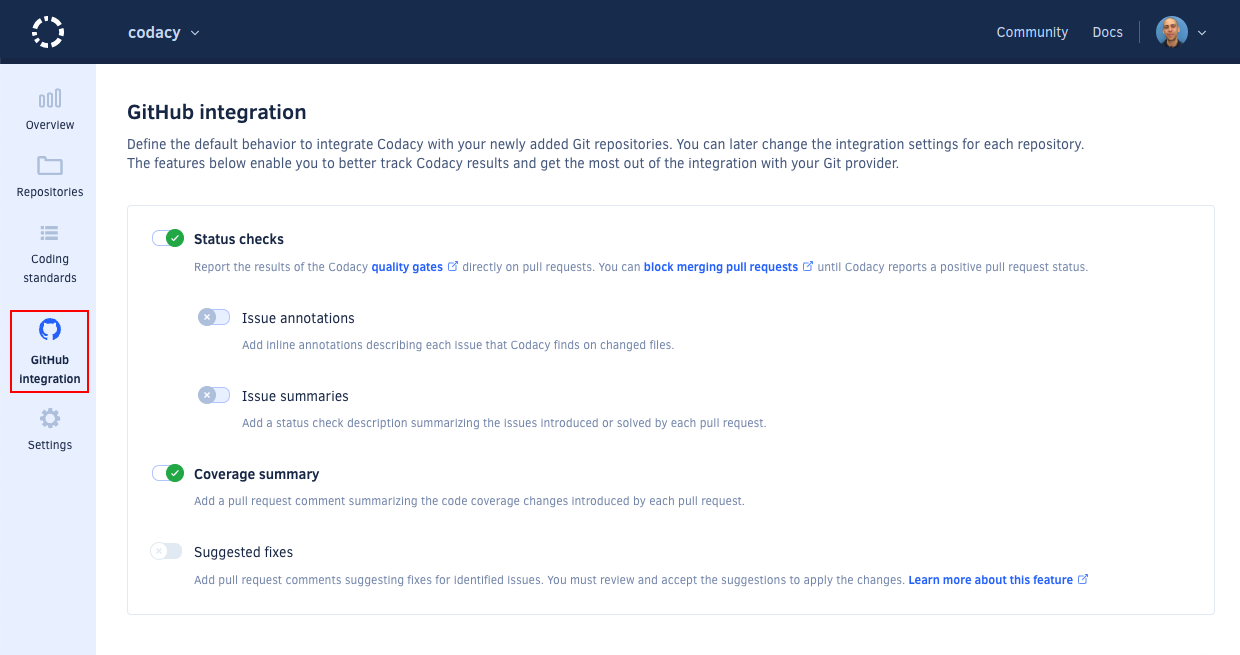
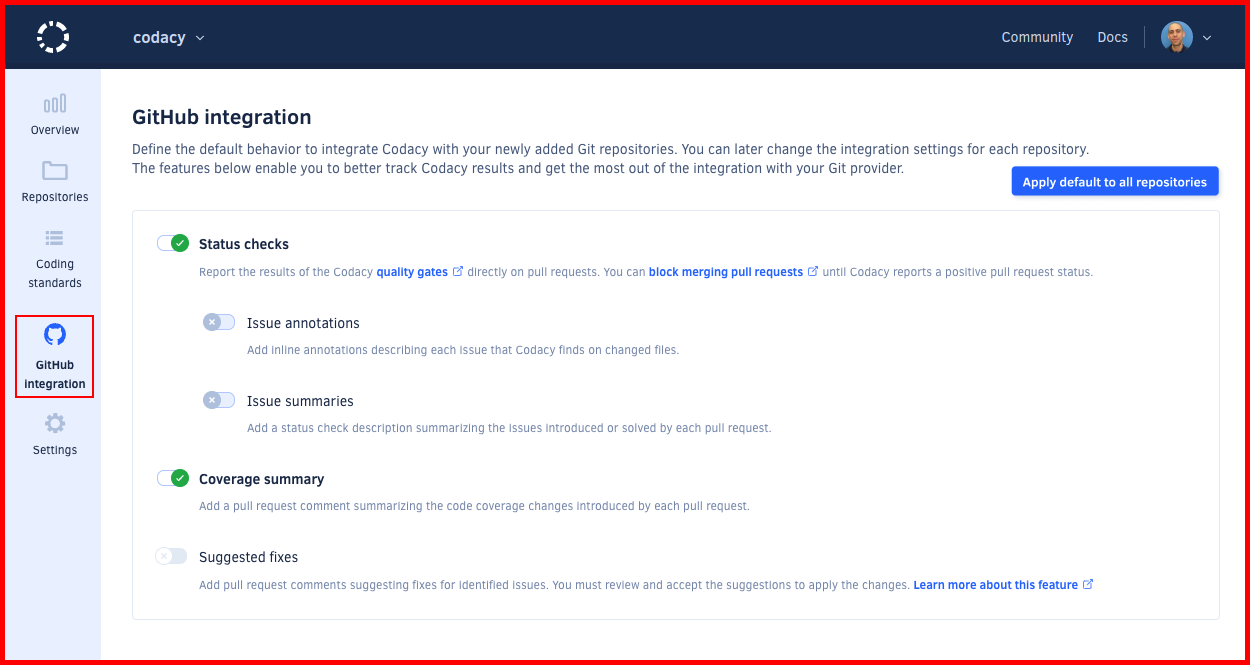
feat: Add section describing the apply all feature. Add tip to mention the apply all

diff --git a/docs/organizations/configuring-default-git-provider-integration-settings.md b/docs/organizations/configuring-default-git-provider-integration-settings.md
@@ -6,11 +6,15 @@ To configure these default settings, go to the Git provider integration page for
 
 ![Default Git provider integration settings](images/default-git-provider-settings.png)<!--TODO PLUTO-550 Update screenshot-->
 
-The organization-level Git provider integration settings define the defaults that Codacy applies to new repositories. You can then customize the settings for each individual repository, which depend on your Git provider, [GitHub](../repositories-configure/integrations/github-integration.md), [GitLab](../repositories-configure/integrations/gitlab-integration.md) or [Bitbucket](../repositories-configure/integrations/bitbucket-integration.md).
+The organization-level Git provider integration settings define the defaults that Codacy applies to new repositories. You can then [apply these setting to all your repositories](#apply-all) already added to Codacy, or customize the settings for each individual repository, which depend on your Git provider, [GitHub](../repositories-configure/integrations/github-integration.md), [GitLab](../repositories-configure/integrations/gitlab-integration.md) or [Bitbucket](../repositories-configure/integrations/bitbucket-integration.md).
 
-## Applying default settings to all repositories
+## Applying default settings to all repositories {: id="apply-all"}
 
-<!--TODO PLUTO-550 Add apply all feature-->
+To ensure that all your repositories are configured with the default Git provider integrating settings defined for your organization, apply these settings all repositories.
+
+To apply the default settings to all repositories, click the button **Apply default to all repositories**.
+
+![Apply default settings to all repositories](images/default-git-provider-settings-apply-all.png)<!--TODO PLUTO-550 Update screenshot-->
 
 ## See also
 

diff --git a/docs/assets/includes/default-git-provider-settings-tip.md b/docs/assets/includes/default-git-provider-settings-tip.md
@@ -1,2 +1,9 @@
+<!--default-settings-start-->
 !!! tip
     Configure the [default Git provider integration settings](../../organizations/configuring-default-git-provider-integration-settings.md) that Codacy applies to new repositories to help ensure that all new repositories have the same settings.
+<!--default-settings-end-->
+
+<!--default-settings-apply-all-start-->
+!!! tip
+    You can [apply the default Git provider integration settings to all repositories](../../organizations/configuring-default-git-provider-integration-settings.md#apply-all) to ensure that all your repositories have the same settings.
+<!--default-settings-apply-all-end-->

diff --git a/docs/repositories-configure/integrations/bitbucket-integration.md b/docs/repositories-configure/integrations/bitbucket-integration.md
@@ -30,7 +30,11 @@ If you remove the integration, you can enable it again as follows:
 
 To configure the Bitbucket integration, open your repository **Settings**, tab **Integrations**.
 
-<!--TODO PLUTO-550 Add tip-->
+{%
+    include-markdown "../../assets/includes/default-git-provider-settings-tip.md"
+    start="<!--default-settings-apply-all-start-->"
+    end="<!--default-settings-apply-all-end-->"
+%}
 
 Depending on the options that you enable, Codacy will automatically update pull requests on Bitbucket with extra information when accepting pull requests:
 

diff --git a/docs/repositories-configure/integrations/gitlab-integration.md b/docs/repositories-configure/integrations/gitlab-integration.md
@@ -26,7 +26,11 @@ If you remove the integration, you can enable it again as follows:
 
 To configure the GitLab integration, open your repository **Settings**, tab **Integrations**.
 
-<!--TODO PLUTO-550 Add tip-->
+{%
+    include-markdown "../../assets/includes/default-git-provider-settings-tip.md"
+    start="<!--default-settings-apply-all-start-->"
+    end="<!--default-settings-apply-all-end-->"
+%}
 
 Depending on the options that you enable, Codacy will automatically update merge requests on GitLab with extra information when accepting merge requests:
 

diff --git a/docs/repositories-configure/integrations/github-integration.md b/docs/repositories-configure/integrations/github-integration.md
@@ -28,7 +28,11 @@ If you remove the integration, you can enable it again as follows:
 
 To configure the GitHub integration, open your repository **Settings**, tab **Integrations**.
 
-<!--TODO PLUTO-550 Add tip-->
+{%
+    include-markdown "../../assets/includes/default-git-provider-settings-tip.md"
+    start="<!--default-settings-apply-all-start-->"
+    end="<!--default-settings-apply-all-end-->"
+%}
 
 Depending on the options that you enable, Codacy will automatically update pull requests on GitHub with extra information when accepting pull requests:
 

diff --git a/docs/getting-started/integrating-codacy-with-your-git-workflow.md b/docs/getting-started/integrating-codacy-with-your-git-workflow.md
@@ -44,7 +44,11 @@ Follow the instructions for [GitHub](../repositories-configure/integrations/gith
 
 ![Enabling your Git provider integration](../repositories-configure/integrations/images/github-integration.png)
 
-{% include-markdown "../assets/includes/default-git-provider-settings-tip.md" %}
+{%
+    include-markdown "../assets/includes/default-git-provider-settings-tip.md"
+    start="<!--default-settings-start-->"
+    end="<!--default-settings-end-->"
+%}
 
 ## 3. Blocking merging pull requests (optional) {: id="blocking-pull-requests"}
 

diff --git a/docs/faq/troubleshooting/why-did-codacy-stop-commenting-on-pull-requests.md b/docs/faq/troubleshooting/why-did-codacy-stop-commenting-on-pull-requests.md
@@ -35,7 +35,11 @@ To fix this issue and avoid future disruptions, re-enable the GitLab or Bitbucke
 
     -   [Enabling the Bitbucket integration](../../repositories-configure/integrations/bitbucket-integration.md#enabling)
 
-{% include-markdown "../../assets/includes/default-git-provider-settings-tip.md" %}
+{%
+    include-markdown "../../assets/includes/default-git-provider-settings-tip.md"
+    start="<!--default-settings-start-->"
+    end="<!--default-settings-end-->"
+%}
 
 ## See also
 
